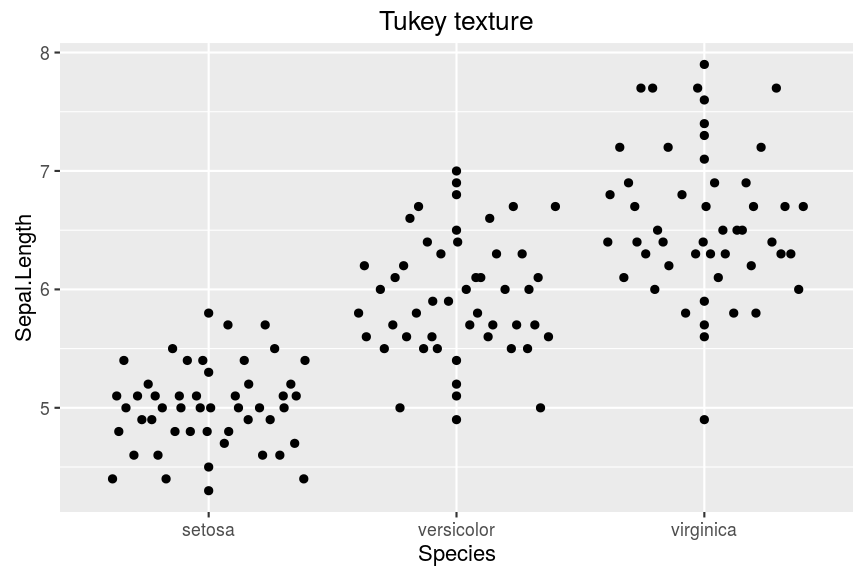
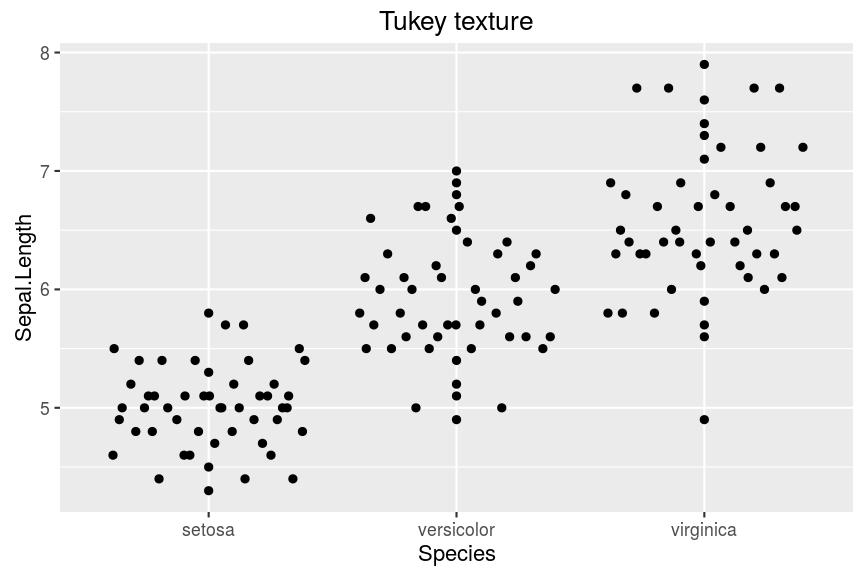
Add jitter vs quasirandom example. Add CRAN install instructions

diff --git a/README.md b/README.md
@@ -21,46 +21,62 @@ See the examples below.
 
 ## Installation
 
+This package is on CRAN so install should be a simple:
 
 ```r
-# Until this package is on CRAN:
+install.packages('ggbeeswarm')
+```
+
+If you want the development version from GitHub, you can do:
+
+
+```r
 devtools::install_github("eclarke/ggbeeswarm")
 ```
 
 ## Examples
+For comparison, here is an comparing `geom_jitter` and `geom_quasirandom` on the `iris` dataset:
+
+```r
+set.seed(12345)
+library(ggplot2)
+library(ggbeeswarm)
+#compare to jitter
+ggplot(iris,aes(Species, Sepal.Length)) + geom_jitter()
+```
+
+<img src="README_files/figure-html/ggplot2-compare-1.png" title="plot of chunk ggplot2-compare" alt="plot of chunk ggplot2-compare" width="432" />
+
+```r
+ggplot(iris,aes(Species, Sepal.Length)) + geom_quasirandom()
+```
+
+<img src="README_files/figure-html/ggplot2-compare-2.png" title="plot of chunk ggplot2-compare" alt="plot of chunk ggplot2-compare" width="432" />
 
 ### geom_quasirandom()
 
 Using `geom_quasirandom`:
 
 ```r
-set.seed(12345)
-library(ggplot2)
-library(ggbeeswarm)
-ggplot(iris,aes(Species, Sepal.Length)) + geom_quasirandom()
-```
-
-<img src="README_files/figure-html/ggplot2-examples-1.png" title="plot of chunk ggplot2-examples" alt="plot of chunk ggplot2-examples" width="432" />
-
-```r
+#default geom_quasirandom
 ggplot(mpg,aes(class, hwy)) + geom_quasirandom()
 ```
 
-<img src="README_files/figure-html/ggplot2-examples-2.png" title="plot of chunk ggplot2-examples" alt="plot of chunk ggplot2-examples" width="432" />
+<img src="README_files/figure-html/ggplot2-examples-1.png" title="plot of chunk ggplot2-examples" alt="plot of chunk ggplot2-examples" width="432" />
 
 ```r
 # With categorical y-axis
 ggplot(mpg,aes(hwy, class)) + geom_quasirandom()
 ```
 
-<img src="README_files/figure-html/ggplot2-examples-3.png" title="plot of chunk ggplot2-examples" alt="plot of chunk ggplot2-examples" width="432" />
+<img src="README_files/figure-html/ggplot2-examples-2.png" title="plot of chunk ggplot2-examples" alt="plot of chunk ggplot2-examples" width="432" />
 
 ```r
 # Some groups may have only a few points. Use `varwidth=TRUE` to adjust width dynamically.
 ggplot(mpg,aes(class, hwy)) + geom_quasirandom(varwidth = TRUE)
 ```
 
-<img src="README_files/figure-html/ggplot2-examples-4.png" title="plot of chunk ggplot2-examples" alt="plot of chunk ggplot2-examples" width="432" />
+<img src="README_files/figure-html/ggplot2-examples-3.png" title="plot of chunk ggplot2-examples" alt="plot of chunk ggplot2-examples" width="432" />
 
 ```r
 # Automatic dodging
@@ -68,7 +84,7 @@ sub_mpg <- mpg[mpg$class %in% c("midsize", "pickup", "suv"),]
 ggplot(sub_mpg, aes(class, displ, color=factor(cyl))) + geom_quasirandom(dodge.width=1)
 ```
 
-<img src="README_files/figure-html/ggplot2-examples-5.png" title="plot of chunk ggplot2-examples" alt="plot of chunk ggplot2-examples" width="432" />
+<img src="README_files/figure-html/ggplot2-examples-4.png" title="plot of chunk ggplot2-examples" alt="plot of chunk ggplot2-examples" width="432" />
 
 #### Alternative methods
 `geom_quasirandom` can also use several other methods to distribute points. For example:
